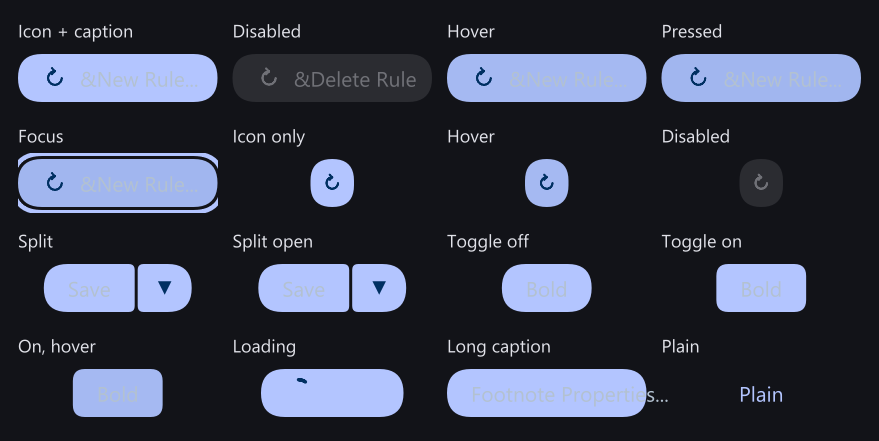
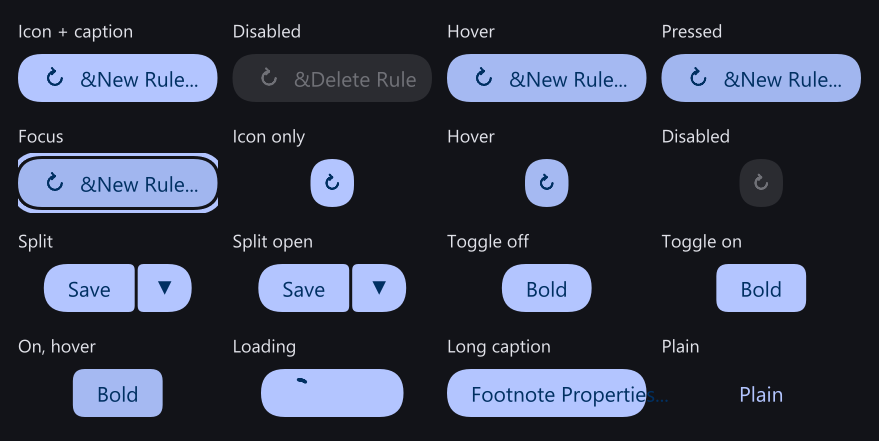
Neper dark: ink darker than the ground is no longer lifted, so on-primary labels read on the accent again
lift_ink pushed every Neper dark ink below 4.6:1 on the lightest surface toward white. The dark on-primary ink (#003062) on the light accent face is such an ink, so button, toolbar and hint labels came out light on light at 1.1:1. An ink darker than the ground is meant for a light fill and is now returned unchanged. Adds scripts/neper_dark_contrast.py, the WCAG checker for the neper-dark sheets, and re-renders the two button sheets.

diff --git a/scripts/neper_dark_contrast.py b/scripts/neper_dark_contrast.py
@@ -1,0 +1,126 @@
+"""WCAG check of the Neper dark sheets (round 22).
+
+`python -I scripts/neper_dark_contrast.py [--all] [sheet ...]`   (names under docs/ui/looks/neper-dark/, without .png; none = every 1.0 sheet)
+
+The page is the sheet's corner colour. Per sheet, from the 1.0 PNG:
+  boundary : each connected group of non-page pixels (grown 2 px, box >= 8 px each way) that has a drawn border or fill must
+             show it at >= 3 : 1 against the page (the perimeter colour, else the fill);
+  text     : ink is whatever departs from its local background (the 9 px median), merged along the row into runs; a run
+             at least 7 px tall and wider than tall is text and needs >= 4.5 : 1 (its core pixel against that background),
+             any other ink blob (icon, mark, caret) needs >= 3 : 1; hairlines (1 px wide or tall) are not judged.
+A disabled control is exempt in WCAG. Neper draws one as its ink at 38 % (content) and 12 % (container) over what it sits
+on (style.disabled_look), so a run or fill that is exactly that mix of the on-surface inks over its background is skipped and
+counted as `disabled`. Exit status is the number of sheets with a FAIL line.
+"""
+import glob
+import os
+import sys
+import numpy as np
+from PIL import Image
+from scipy import ndimage
+
+ROOT = os.path.join(os.path.dirname(os.path.abspath(__file__)), "..", "docs", "ui", "looks", "neper-dark")
+
+
+def lin(c):
+    c = c / 255.0
+    return np.where(c <= 0.04045, c / 12.92, ((c + 0.055) / 1.055) ** 2.4)
+
+
+def lum_arr(img):
+    l = lin(img.astype(float))
+    return 0.2126 * l[..., 0] + 0.7152 * l[..., 1] + 0.0722 * l[..., 2]
+
+
+def ratio(a, b):
+    hi, lo = np.maximum(a, b), np.minimum(a, b)
+    return (hi + 0.05) / (lo + 0.05)
+
+
+def mode(px):
+    v, n = np.unique(px.reshape(-1, 3), axis=0, return_counts=True)
+    return tuple(int(x) for x in v[n.argmax()])
+
+
+def hx(c):
+    return "#%02X%02X%02X" % tuple(int(x) for x in c)
+
+
+def one_lum(c):
+    return float(lum_arr(np.array([[c]], dtype=np.uint8))[0, 0])
+
+
+INKS = [(225, 226, 233), (196, 198, 213), (141, 144, 158)]
+
+
+def disabled(c, bg, alpha):
+    return any(max(abs(c[k] - (bg[k] + alpha * (i[k] - bg[k]))) for k in range(3)) <= 3 for i in INKS)
+
+
+def groups(img, page):
+    m = np.abs(img.astype(int) - np.array(page)).max(axis=2) > 6
+    lab, _ = ndimage.label(ndimage.binary_dilation(m, structure=np.ones((3, 3), bool), iterations=2), structure=np.ones((3, 3), bool))
+    for ys, xs in ndimage.find_objects(lab):
+        yy, xx = np.where(m[ys, xs])
+        if len(yy) >= 30:
+            yield xs.start + xx.min(), ys.start + yy.min(), xs.start + xx.max(), ys.start + yy.max()
+
+
+def check(name):
+    img = np.array(Image.open(os.path.join(ROOT, name + ".png")).convert("RGB"))
+    page = tuple(int(v) for v in img[0, 0])
+    lp = one_lum(page)
+    fails = []
+    for x0, y0, x1, y1 in groups(img, page):
+        if x1 - x0 < 8 or y1 - y0 < 8:
+            continue
+        per = np.concatenate([img[y0, x0:x1 + 1], img[y1, x0:x1 + 1], img[y0:y1 + 1, x0], img[y0:y1 + 1, x1]])
+        edge, face = mode(per), mode(img[y0 + 1:y1, x0 + 1:x1])
+        shown = edge if edge != page else face
+        if shown != page and not disabled(shown, page, 0.12):
+            r = float(ratio(one_lum(shown), lp))
+            if r < 3.0:
+                fails.append("boundary (%d,%d) %dx%d %s on page %s %.2f:1 < 3" % (x0, y0, x1 - x0 + 1, y1 - y0 + 1, hx(shown), hx(page), r))
+    # text and glyphs, over the whole sheet
+    lum = lum_arr(img)
+    bgc = np.stack([ndimage.median_filter(img[..., k], size=9) for k in range(3)], axis=2)
+    bg = lum_arr(bgc)
+    cr = ratio(lum, bg)
+    ink = cr > 1.25
+    runs, _ = ndimage.label(ndimage.binary_dilation(ink, structure=np.ones((1, 3), bool), iterations=2), structure=np.ones((3, 3), bool))
+    for sl in ndimage.find_objects(runs):
+        ys, xs = sl
+        h, w = ys.stop - ys.start, xs.stop - xs.start
+        sel = ink[sl]
+        if sel.sum() < 6 or min(h, w) < 2:
+            continue
+        near = bg[max(ys.start - 2, 0):ys.stop + 2, max(xs.start - 2, 0):xs.stop + 2]
+        if ratio(near.max(), near.min()) > 1.12:
+            continue
+        i = np.unravel_index(np.where(sel, cr[sl], 0).argmax(), sel.shape)
+        core = float(cr[sl][i])
+        text = h >= 7 and w > h and sel.sum() >= 12
+        need = 4.5 if text else 3.0
+        y, x = ys.start + i[0], xs.start + i[1]
+        if core < need and not disabled(img[y, x].astype(float), bgc[y, x].astype(float), 0.38):
+            fails.append("%s (%d,%d) %dx%d %s on %s %.2f:1 < %.1f" % ("text" if text else "glyph", xs.start, ys.start, w, h, hx(img[y, x]), hx(page) if abs(bg[y, x] - lp) < 1e-3 else hx(bgc[y, x]), core, need))
+    return fails
+
+
+def main():
+    names = [a for a in sys.argv[1:] if not a.startswith("--")]
+    if not names:
+        names = sorted(os.path.basename(f)[:-4] for f in glob.glob(os.path.join(ROOT, "*.png")) if "@" not in f and "-vs-" not in f)
+    bad = 0
+    for n in names:
+        f = check(n)
+        print("%s: %s" % (n, "ok" if not f else "%d FAIL" % len(f)))
+        for line in f:
+            print("  FAIL " + line)
+        bad += bool(f)
+    print("%d of %d sheets with FAIL lines" % (bad, len(names)))
+    sys.exit(bad)
+
+
+if __name__ == "__main__":
+    main()
